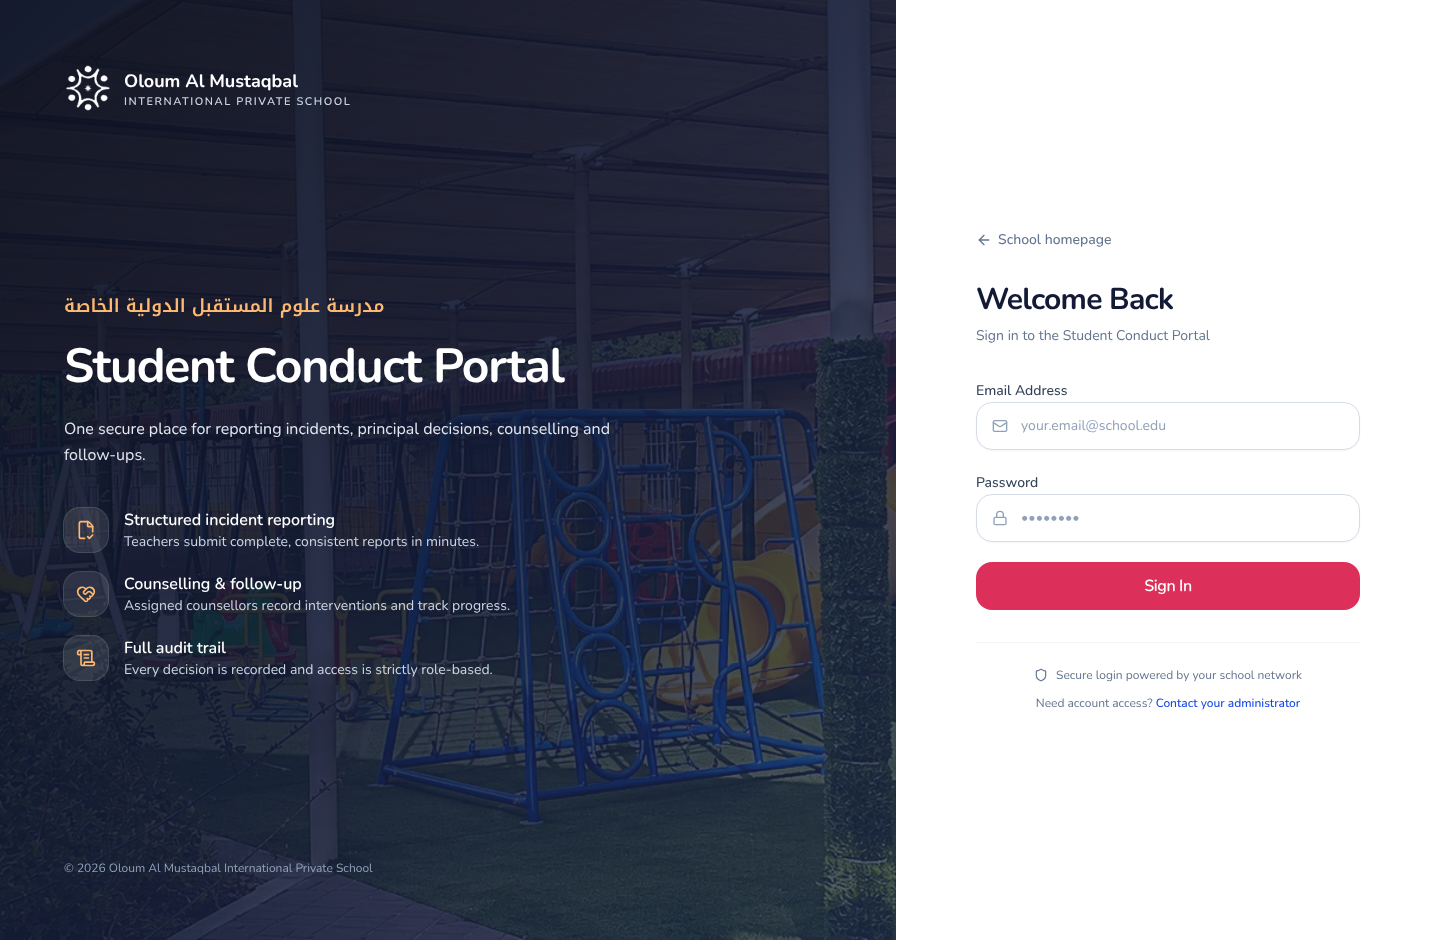
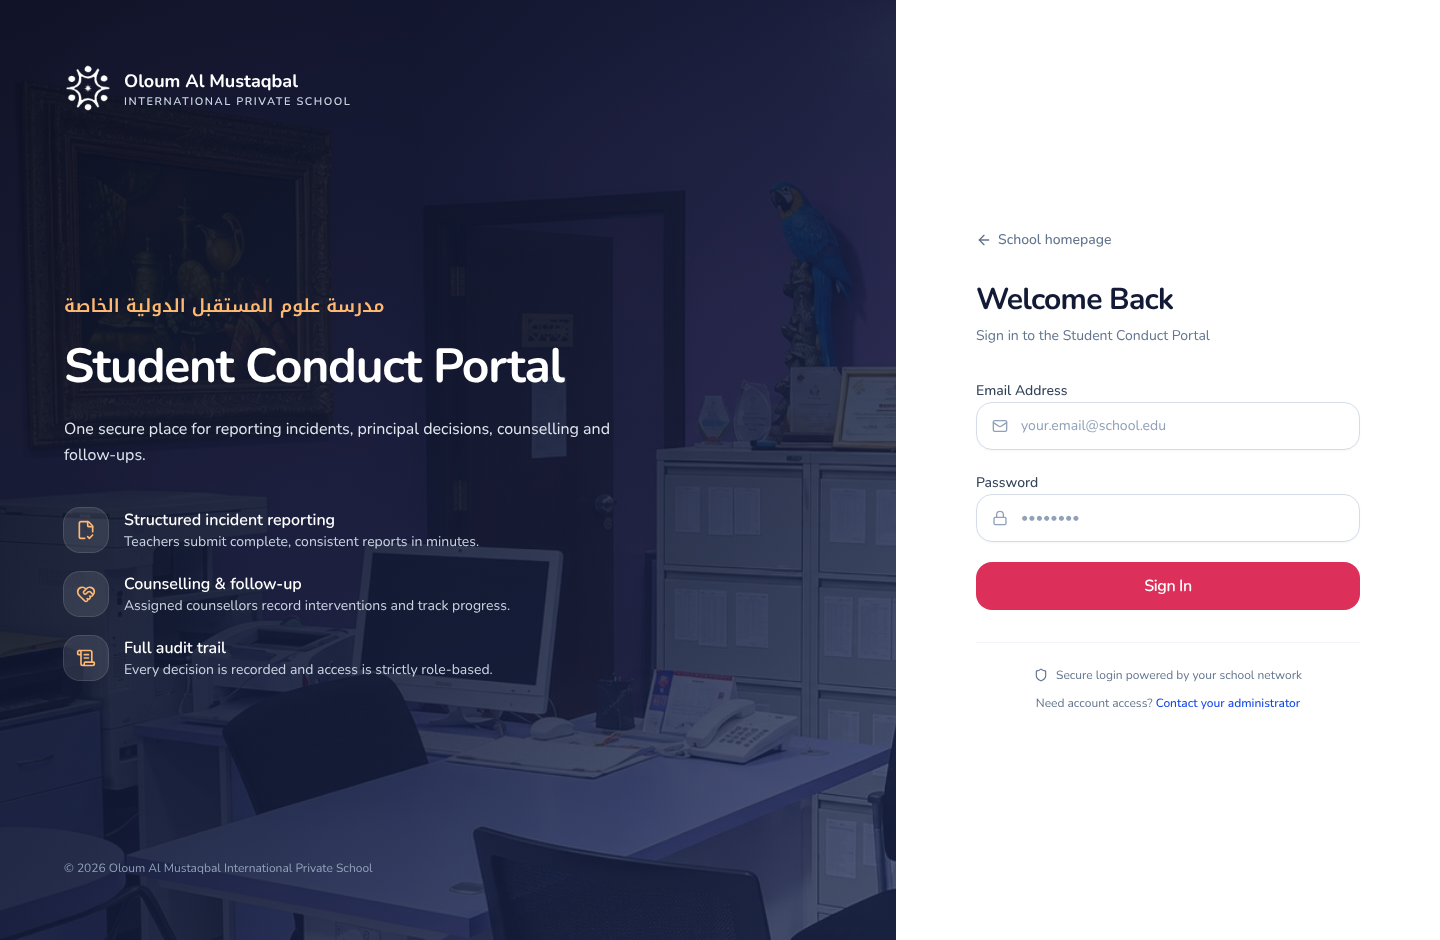
Add campus photos: gallery section, login and statistics backgrounds
- New "Our campus" section on the homepage: a mosaic with the colourful
  corridor (large), computer lab, administration office and outdoor play
  area, with scroll reveal, slow hover zoom and animated captions.
- The administration office photo is the login page background.
- The computer lab photo sits behind the community statistics.
- Header navigation links to the campus section; screenshots refreshed.

Claude-Session: https://claude.ai/code/session_019HLAztZPKUb6j8UcEyjLs1

Changed region(s): [[0.0938, 0.2468, 0.625, 1.0], [0.3438, 0.9872, 0.375, 1.0], [0.0312, 0.9255, 0.0625, 0.9564]]

diff --git a/app/page.tsx b/app/page.tsx
@@ -56,6 +56,13 @@ const commitments = [
   { icon: ScrollText, title: 'Every action is recorded', text: 'Decisions and changes keep their author and time in an audit trail.' },
 ]
 
+const campus = [
+  { src: school.corridorImage, alt: 'Colourful school corridor with a play area', title: 'Colourful corridors', text: 'Cheerful, welcoming spaces between classrooms.', span: 'sm:col-span-2 lg:row-span-2', position: 'object-center' },
+  { src: school.computerLabImage, alt: 'Computer lab with student workstations', title: 'Computer lab', text: 'A workstation for every student.', span: 'sm:col-span-2', position: 'object-center' },
+  { src: school.officeImage, alt: 'School administration office', title: 'Administration', text: 'Where cases are reviewed with care.', span: '', position: 'object-[60%_50%]' },
+  { src: school.campusImage, alt: 'Shaded outdoor play area', title: 'Outdoor play', text: 'Shaded play areas for every age.', span: '', position: 'object-[60%_50%]' },
+]
+
 // The four colours of the school logo, used to tell items apart.
 const brandBg = ['bg-brand-teal', 'bg-brand-orange', 'bg-brand-pink', 'bg-brand-green']
 
@@ -132,6 +139,7 @@ export default function HomePage() {
             <a href="#top" className="rounded-md bg-brand-pink px-3 py-1.5 text-white">Home</a>
             {[
               ['#about', 'About'],
+              ['#campus', 'Campus'],
               ['#process', 'How it works'],
               ['#accreditation', 'Accreditation'],
               ['#contact', 'Contact'],
@@ -248,7 +256,7 @@ export default function HomePage() {
           <Wave fill="#0b1022" back="#20b0c0" />
           <div className="relative bg-navy-950 py-20">
             {/* eslint-disable-next-line @next/next/no-img-element */}
-            <img src={school.campusImage} alt="" aria-hidden className="absolute inset-0 h-full w-full object-cover opacity-25" />
+            <img src={school.computerLabImage} alt="" aria-hidden className="absolute inset-0 h-full w-full object-cover opacity-30" />
             <div aria-hidden className="absolute inset-0 bg-gradient-to-br from-brand-teal/40 via-navy-950/70 to-navy-950" />
             <div className="relative mx-auto max-w-6xl px-4 sm:px-6 lg:px-8">
               <SectionTitle eyebrow="Our community" title="A diverse, caring school family" light center />
@@ -265,6 +273,27 @@ export default function HomePage() {
             </div>
           </div>
           <Wave fill="#0b1022" back="#20b0c0" flip />
+        </section>
+
+        {/* Campus gallery */}
+        <section id="campus" className="scroll-mt-24 py-24">
+          <div className="mx-auto max-w-7xl px-4 sm:px-6 lg:px-8">
+            <Reveal><SectionTitle eyebrow="Our campus" title="Bright spaces to learn and grow" center /></Reveal>
+            <div className="mt-12 grid gap-4 sm:grid-cols-2 lg:h-[560px] lg:grid-cols-4 lg:grid-rows-2">
+              {campus.map((c, i) => (
+                <Reveal key={c.title} delay={i * 120} variant="zoom" className={`group relative overflow-hidden rounded-3xl shadow-lg ${c.span}`}>
+                  {/* eslint-disable-next-line @next/next/no-img-element */}
+                  <img src={c.src} alt={c.alt} loading="lazy" className={`h-full min-h-[240px] w-full object-cover transition-transform duration-[1200ms] ease-out group-hover:scale-110 ${c.position}`} />
+                  <div aria-hidden className="absolute inset-0 bg-gradient-to-t from-black/75 via-black/10 to-transparent opacity-90 transition-opacity duration-500 group-hover:opacity-100" />
+                  <div className="absolute inset-x-0 bottom-0 p-5 text-white transition-transform duration-500 group-hover:-translate-y-1">
+                    <span className={`mb-2 inline-block h-1.5 w-10 rounded-full ${brandBg[i % brandBg.length]} transition-all duration-500 group-hover:w-16`} />
+                    <p className="text-lg font-extrabold sm:text-xl">{c.title}</p>
+                    <p className="mt-0.5 max-w-sm text-sm text-white/85">{c.text}</p>
+                  </div>
+                </Reveal>
+              ))}
+            </div>
+          </div>
         </section>
 
         {/* Process */}

diff --git a/app/login/page.tsx b/app/login/page.tsx
@@ -47,7 +47,7 @@ export default function LoginPage() {
       {/* Brand panel */}
       <section className="relative hidden flex-1 flex-col justify-between overflow-hidden bg-navy-950 p-12 text-white lg:flex xl:p-16">
         {/* eslint-disable-next-line @next/next/no-img-element */}
-        <img src={school.campusImage} alt="" aria-hidden className="absolute inset-0 h-full w-full object-cover" />
+        <img src={school.officeImage} alt="" aria-hidden className="absolute inset-0 h-full w-full object-cover" />
         <div aria-hidden className="absolute inset-0 bg-gradient-to-br from-navy-950/95 via-navy-900/90 to-navy-800/70" />
         <Link href="/" className="relative flex items-center gap-3 self-start">
           {/* eslint-disable-next-line @next/next/no-img-element */}

diff --git a/lib/school.ts b/lib/school.ts
@@ -43,4 +43,7 @@ export const school = {
   logoColor: '/images/school-logo-color.png',
   logoWhite: '/images/school-logo-white.png',
   campusImage: '/images/school-campus.jpg',
+  officeImage: '/images/campus-office.jpg',
+  computerLabImage: '/images/campus-computer-lab.jpg',
+  corridorImage: '/images/campus-corridor.jpg',
 }
